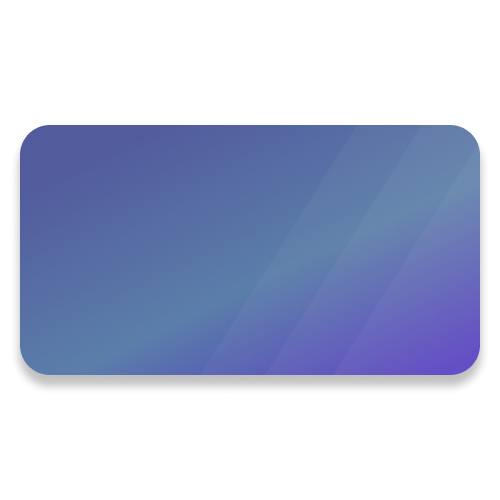
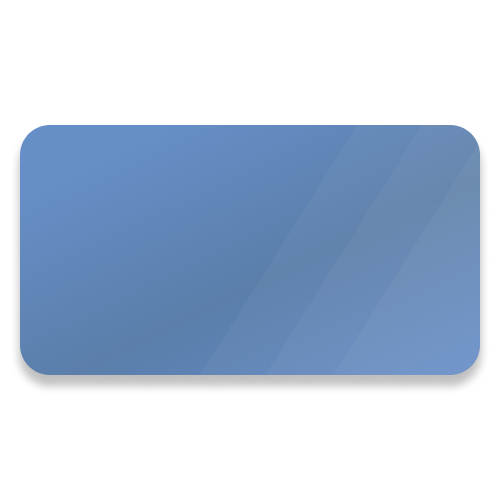
Reuse the Gastos colors on the keyboard and modal buttons
The reds (Cancelar, the trash) take bg.danger and the greens (save) take
bg.check, so the editing overlay matches the buttons on Gastos. bg.blue
becomes the theme's own accent, solid like the other two, instead of a
washed-out translucent blue.

The Confirmar/Cancelar labels move to text.onFill: they were the dark ink,
which barely read on a saturated fill.

Claude-Session: https://claude.ai/code/session_01DMpjDLeQh6Ex1iE7PKRMqh

Changed region(s): [[0.03, 0.24, 0.75, 0.6], [0.36, 0.48, 0.96, 0.75]]

diff --git a/src/designs/v2/components/ModalEditSub.js b/src/designs/v2/components/ModalEditSub.js
@@ -151,7 +151,7 @@ export default function ModalEditSub({ bill = {}, onCancel, setShowMenu }) {
               toque, se lo lleva el escudo de atrás y solo cierra el teclado */}
           <Animated.View layout={LinearTransition} pointerEvents={keyboardOpen ? 'none' : 'auto'} style={{ marginRight: windowWidth * 0.2, marginTop: 10, flexDirection: 'row', justifyContent: 'flex-end', width: '100%', gap: 8 }}>
             <Animated.View layout={LinearTransition}>
-              <Pressable onPress={() => confirmationAction()} style={{ backgroundColor: theme.bg.red, borderRadius: 100, height: windowWidth * 0.08, width: windowWidth * 0.1, justifyContent: 'center', alignItems: 'center' }}>
+              <Pressable onPress={() => confirmationAction()} style={{ backgroundColor: theme.bg.danger, borderRadius: 100, height: windowWidth * 0.08, width: windowWidth * 0.1, justifyContent: 'center', alignItems: 'center' }}>
                 <Image style={{ height: windowWidth * 0.055, aspectRatio: 1 / 1, opacity: 0.9 }} source={require('../../../../assets/icons/trash.png')}></Image>
               </Pressable>
             </Animated.View>
@@ -162,7 +162,7 @@ export default function ModalEditSub({ bill = {}, onCancel, setShowMenu }) {
             </Animated.View>
             {JSON.stringify(currentBill) !== JSON.stringify(bills.find((b) => b.id === currentBill.id)) && fields.every((field) => field in currentBill) && (
               <Animated.View layout={LinearTransition} entering={SlideInRight} exiting={SlideOutRight}>
-                <Pressable onPress={() => (updateBill({ bill: { ...currentBill, type: 'sub' } }), onCancel())} style={{ backgroundColor: theme.bg.green, borderRadius: 100, height: windowWidth * 0.08, justifyContent: 'center', alignItems: 'center' }}>
+                <Pressable onPress={() => (updateBill({ bill: { ...currentBill, type: 'sub' } }), onCancel())} style={{ backgroundColor: theme.bg.check, borderRadius: 100, height: windowWidth * 0.08, justifyContent: 'center', alignItems: 'center' }}>
                   <Text style={{ color: theme.text._1, fontSize: fS.modalTransfer, paddingHorizontal: 20 }}>Guardar</Text>
                 </Pressable>
               </Animated.View>

diff --git a/src/designs/v2/components/Keyboard.js b/src/designs/v2/components/Keyboard.js
@@ -100,7 +100,7 @@ export function Keyboard({ initialValue = '0', onChange, onConfirm, onCancel = n
           width: windowWidth * 0.25,
           top: -windowWidth * 0.09 - 5,
           right: 5,
-          backgroundColor: showCancel ? theme.bg.red : theme.bg.blue,
+          backgroundColor: showCancel ? theme.bg.danger : theme.bg.blue,
           height: windowWidth * 0.09,
           borderRadius: 15,
           justifyContent: 'center',
@@ -109,11 +109,11 @@ export function Keyboard({ initialValue = '0', onChange, onConfirm, onCancel = n
         }}
       >
         {showCancel ? (
-          <Animated.Text key={'cancel'} entering={FadeInDown.duration(100)} exiting={FadeOutUp.duration(100)} style={{ color: theme.text._1, fontWeight: 400, fontSize: fS.keyboardBtn }}>
+          <Animated.Text key={'cancel'} entering={FadeInDown.duration(100)} exiting={FadeOutUp.duration(100)} style={{ color: theme.text.onFill, fontWeight: 400, fontSize: fS.keyboardBtn }}>
             Cancelar
           </Animated.Text>
         ) : (
-          <Animated.Text key={'confirm'} entering={FadeInDown.duration(100)} exiting={FadeOutUp.duration(100)} style={{ color: theme.text._1, fontWeight: 400, fontSize: fS.keyboardBtn }}>
+          <Animated.Text key={'confirm'} entering={FadeInDown.duration(100)} exiting={FadeOutUp.duration(100)} style={{ color: theme.text.onFill, fontWeight: 400, fontSize: fS.keyboardBtn }}>
             Confirmar
           </Animated.Text>
         )}
@@ -128,7 +128,7 @@ export function Keyboard({ initialValue = '0', onChange, onConfirm, onCancel = n
               width: windowWidth * 0.12,
               top: -windowWidth * 0.09 - 5,
               right: 10 + windowWidth * 0.25,
-              backgroundColor: theme.bg.red,
+              backgroundColor: theme.bg.danger,
               height: windowWidth * 0.09,
               borderRadius: 15,
               justifyContent: 'center',

diff --git a/src/designs/v2/components/ModalEditAccount.js b/src/designs/v2/components/ModalEditAccount.js
@@ -315,7 +315,7 @@ export default function ModalEditAccount({ bill = {}, onCancel, setShowMenu }) {
           <Animated.View layout={LinearTransition} pointerEvents={keyboardOpen ? 'none' : 'auto'} style={{ marginRight: windowWidth * 0.2, marginTop: 10, flexDirection: 'row', justifyContent: 'flex-end', width: '100%', gap: 8 }}>
             {/* botón eliminar -------------------------- */}
             <Animated.View layout={LinearTransition}>
-              <Pressable onPress={() => confirmationAction()} style={{ backgroundColor: theme.bg.red, borderRadius: 100, height: windowWidth * 0.08, width: windowWidth * 0.1, justifyContent: 'center', alignItems: 'center' }}>
+              <Pressable onPress={() => confirmationAction()} style={{ backgroundColor: theme.bg.danger, borderRadius: 100, height: windowWidth * 0.08, width: windowWidth * 0.1, justifyContent: 'center', alignItems: 'center' }}>
                 <Image style={{ height: windowWidth * 0.055, aspectRatio: 1 / 1, opacity: 0.9 }} source={require('../../../../assets/icons/trash.png')}></Image>
               </Pressable>
             </Animated.View>
@@ -377,7 +377,7 @@ export default function ModalEditAccount({ bill = {}, onCancel, setShowMenu }) {
                       }),
                       onCancel()
                     )}
-                    style={{ backgroundColor: theme.bg.green, borderRadius: 100, height: windowWidth * 0.08, justifyContent: 'center', alignItems: 'center' }}
+                    style={{ backgroundColor: theme.bg.check, borderRadius: 100, height: windowWidth * 0.08, justifyContent: 'center', alignItems: 'center' }}
                   >
                     <Text style={{ color: theme.text._1, fontSize: fS.modalTransfer, paddingHorizontal: 20 }}>Guardar</Text>
                   </Pressable>

diff --git a/src/theme/theme.js b/src/theme/theme.js
@@ -261,7 +261,7 @@ export const beigeTheme = createTheme({
     primary_0: 'rgba(243, 239, 230, 0)',
     // líneas de la cuadrícula del fondo
     grid: 'rgba(57, 53, 48, 0.015)',
-    blue: 'rgba(74, 127, 193, 0.7)',
+    blue: 'rgb(74, 127, 193)',
     red: 'rgba(176, 82, 72, 0.5)',
     green: 'rgba(74, 122, 84, 0.55)',
     green_03: 'rgba(74, 122, 84, 0.25)',
